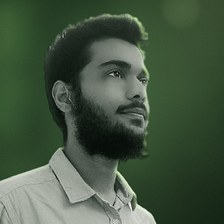
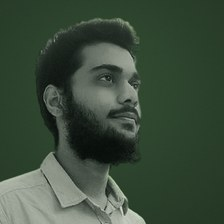
Simplify the founder portrait
Plain olive gradient backdrop instead of bokeh, no glow, softer highlights so the skin keeps its natural tone, rim light kept off the face, and a lighter under-eye retouch without skin smoothing.

diff --git a/CHANGELOG.md b/CHANGELOG.md
@@ -5,7 +5,7 @@ All notable changes to hydrotonic.org. Newest first.
 ## 2026-10-23: Hydrotonic's own photos and the founder portrait
 
 - Replaced the stock photos with Hydrotonic's own: rooftop and covered tower farms (hero and About, softened so the build layout is not readable), coriander towers, lettuce, spinach, tomato and coriander in net pots, and roots. One Unsplash photo remains (the farmer portrait in the homepage band).
-- Added a retouched founder portrait to the About page and the homepage teaser: a BiRefNet portrait cutout with edge colour cleanup, a green-toned grade, a lime rim light and light wrap, set against Hydrotonic's own coriander towers blurred into bokeh, plus a light portrait retouch (under-eye bags and shadows lifted, skin evened with texture kept, eyes slightly clarified). Tone and texture only; his features are unchanged.
+- Added a founder portrait to the About page and the homepage teaser: a BiRefNet portrait cutout with edge colour cleanup on a plain olive gradient, an olive tone with soft highlights, a soft rim light on hair and shoulders, and a light under-eye retouch. Tone only; his features are unchanged.
 - The About page gallery now shows Hydrotonic's own photos instead of Instagram embeds, so the site no longer loads anything from Instagram. The Privacy Notice is updated to match.
 - The RAWE entry on the About page now describes the farmer awareness charts and demonstration models prepared in Shirahatti taluk, Gadag district.
 - Removed the old business-card product crops.
